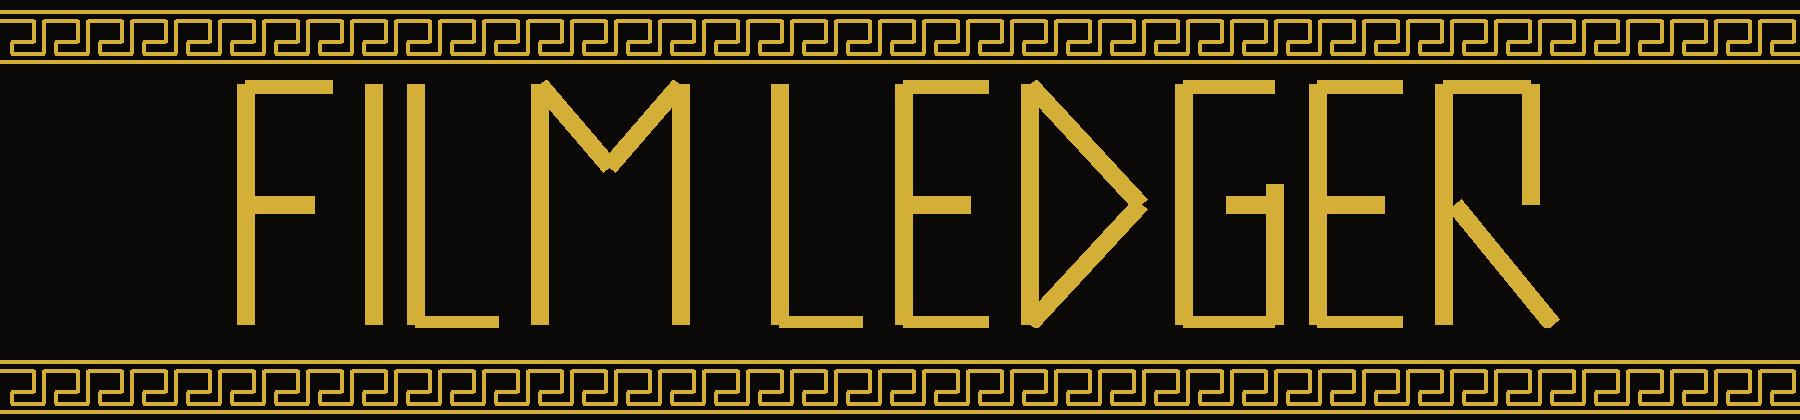
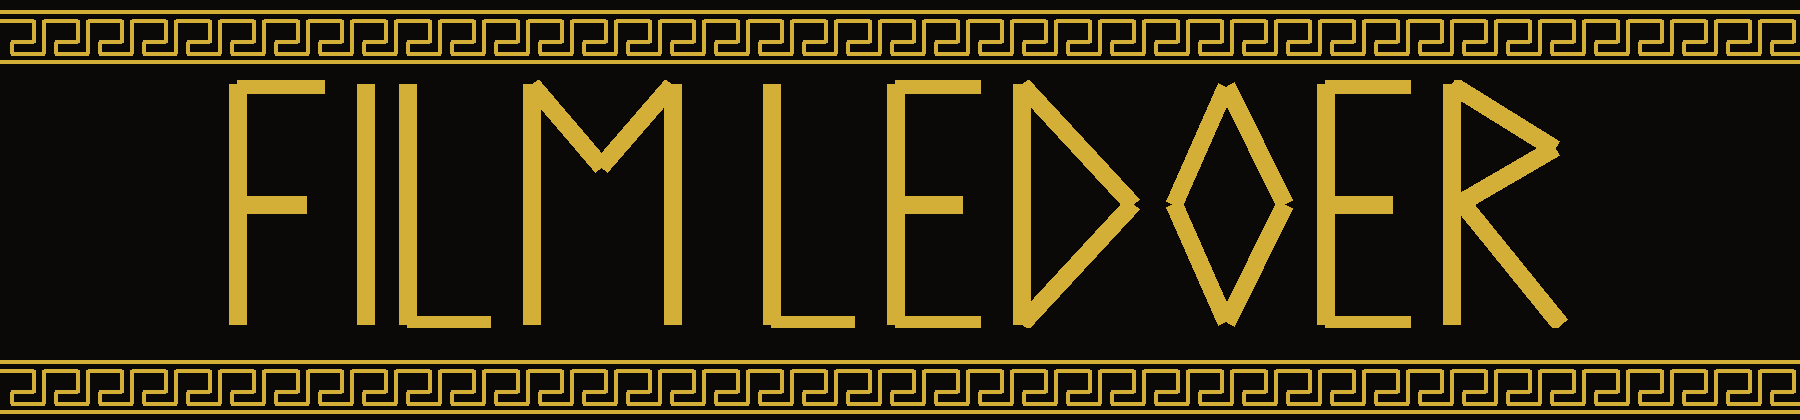
v5.43: diamond G and triangle R
G is four lines in a diamond. R's bowl is a triangle like the D.

diff --git a/index.html b/index.html
@@ -14,8 +14,8 @@
 <body>
   <div class="sticky-top">
     <div class="brand">
-      <img class="brand-mark" src="film-ledger-title.png?v=542" alt="Film Ledger">
-      <span class="brand-ver">v5.42</span>
+      <img class="brand-mark" src="film-ledger-title.png?v=543" alt="Film Ledger">
+      <span class="brand-ver">v5.43</span>
     </div>
 
     <div class="search-bar">
@@ -60,6 +60,6 @@
     <div id="least" class="tabs"></div>
   </div>
 
-  <script src="app.js?v=542"></script>
+  <script src="app.js?v=543"></script>
 </body>
 </html>

diff --git a/app.js b/app.js
@@ -1776,7 +1776,7 @@ function renderSettings() {
         ${ALL_TABS.map(([id, label]) => `<button type="button" class="tab-toggle${visibleTabs().has(id) ? ' on' : ''}" onclick="toggleTabVisibility('${id}')">${escapeHtml(label)}</button>`).join('')}
       </div>
     </div>
-    <p class="backup-note" style="margin-top:14px;">Film Ledger v5.42</p>
+    <p class="backup-note" style="margin-top:14px;">Film Ledger v5.43</p>
   `;
 }
 

diff --git a/service-worker.js b/service-worker.js
@@ -1,11 +1,11 @@
-const CACHE_NAME = 'film-ledger-v5.42';
+const CACHE_NAME = 'film-ledger-v5.43';
 const urlsToCache = [
   './',
   './index.html',
   './styles.css',
-  './app.js?v=542',
+  './app.js?v=543',
   './manifest.json',
-  './film-ledger-title.png?v=542'
+  './film-ledger-title.png?v=543'
 ];
 
 self.addEventListener('install', event => {
